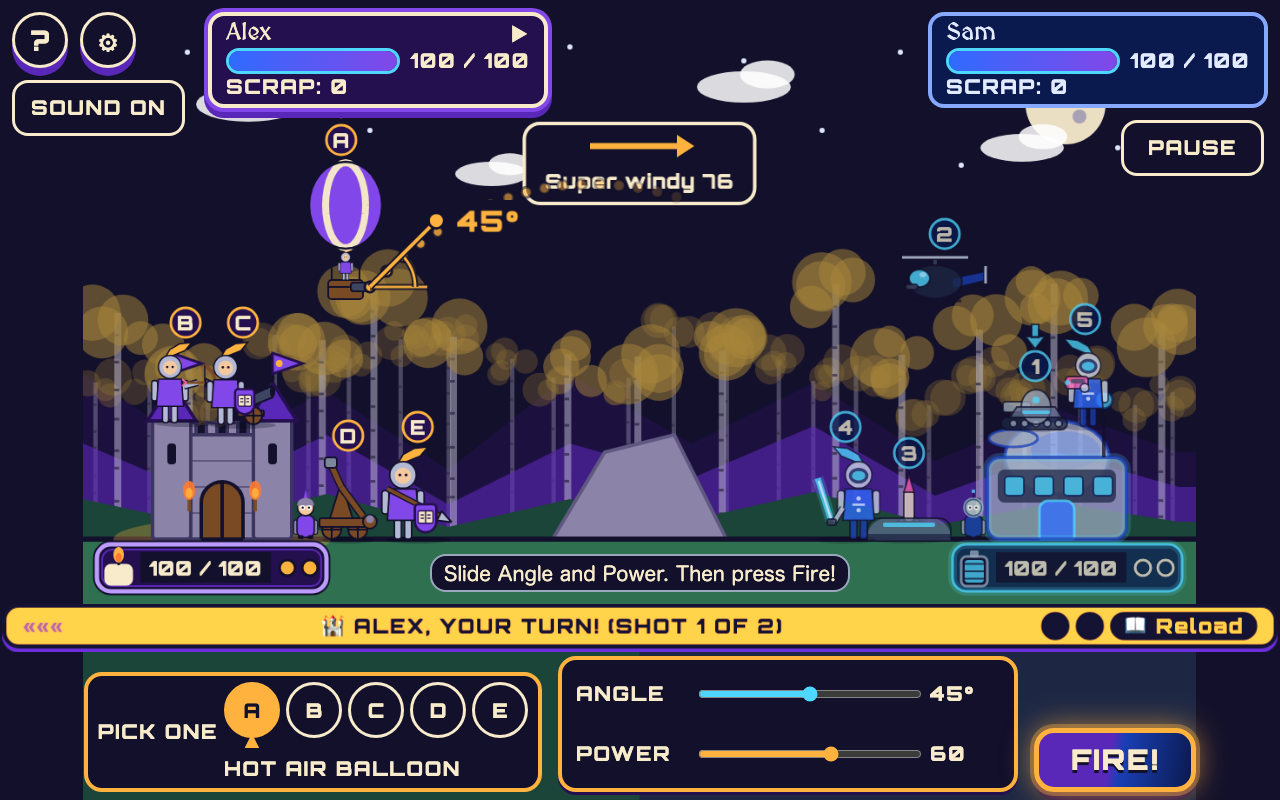
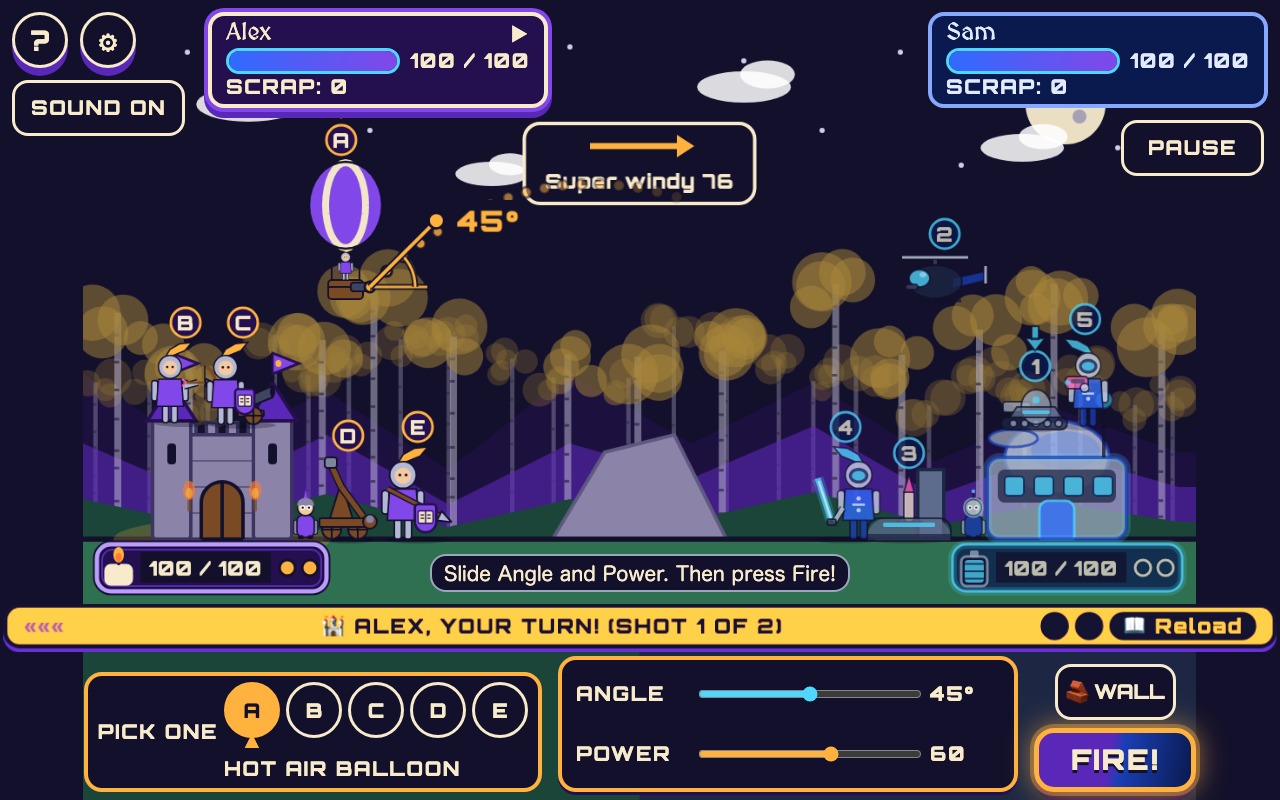
Document the Battle Plan, ammo and evasion wiring
Update BUILD.md with the design calls made where it was silent,
ARCHITECTURE.md with the flow, rules and storage key, CONTRACTS.md
with two decisions, the Current state in AGENTS.md, and BACKLOG.md
with the open questions.

diff --git a/ARCHITECTURE.md b/ARCHITECTURE.md
@@ -24,7 +24,7 @@ Read-aloud audio for questions and wipeout lines is pre-made offline and stored 
 `app-server/` is a small Node server (`node:http` only) that serves the built site and the recorded lines on one origin: `GET /v1/clips/:id`, `GET /health`, static files with cache headers, compression and Range support. The exact security headers come from `public/_headers`. The game asks for clips only in a build made with `VITE_VOICE=on` (production and e2e builds). `speak(line)` picks the line's own `audioSrc` file, then a clip (`src/audio/clipPlayer.ts`, id from `src/audio/clipId.ts`), then the browser voice. A clip that fails or takes over 1.5 s falls back at once and is not asked for again that session. The funny knock-down line is also spoken through `speak()` when clips are on. The Phase 4 relay will mount at `/ws` in the same process. Full contract, env, and Railway cutover and rollback: [docs/APP_SERVER.md](./docs/APP_SERVER.md).
 
 ## Scene flow
-New family: TapToStart → Intro → Loading → Setup → Camp → (Deploy, Phase 2) → Battle → Victory → Rematch or Camp.
+New family: TapToStart → Intro → Loading → Setup → Camp → Battle Plan → Battle → Victory → Rematch or Camp. The Battle Plan is a DOM screen run by the Camp step (`showPlan`, `src/ui/planScreen.ts`). Back returns to the Camp. Lock it in! saves the plan and starts the match.
 Returning family (intro seen and players saved): Loading → Camp → Battle → Victory → Rematch or Camp. There is no Tap to Play screen for them. The first tap or key press anywhere unlocks sound (`boot.ts`), so nothing plays before a tap.
 
 Back and exit: Setup has Back (to the Camp, saves nothing) once players are saved. The Forge has Back. In a battle, Pause offers Keep playing and Leave game, which asks "Leave this game?" first (Stay is focused) and then returns to the Camp.
@@ -39,7 +39,13 @@ The Camp hawk is a small 3D solid (`src/ui/hawkModel.ts`: body, head, beak, eyes
 `src/scenes/battle/aimArt.ts` draws one small angle guide (a short arc, a ~108px line, a tiny handle with a 48px invisible grab circle, and the degree number) at the muzzle of the fighter about to fire. The muzzle comes from `firingOrigin(team, unitId, layout)` in `src/game/units.ts`, the same function `match.fire()`, the bot and the dotted preview use, so the guide, the preview and the shot always start at one point. `flow.ts` sends it to the view as `ViewStatus.firingOrigin`, and picking another fighter moves the guide. Dragging the tip sets the angle only (`angleFromDrag` in `geometry.ts`). Power is shown and set only by the bottom-bar slider; there is no power meter on the board. The e2e hook reads the guide through `window.__timeclash.aim()`. Tests: `tests/game/units.test.ts`, `tests/scenes/battle/geometry.test.ts`, `e2e/aim.spec.ts`.
 
 ## Base deployment spots (Phase 2)
-`src/game/spots.ts` turns a spot id (`skyscraper`, `bridge`, `foodTruck`, or `null`) into a `BattleLayout`. Only Team Future's base, launch origin, and cover move. `null` and unknown ids give the Phase 1 layout. The numbers live in `SPOTS` in `src/game/config.ts`. Not wired into the scenes yet.
+`src/game/spots.ts` turns a spot id (`skyscraper`, `bridge`, `foodTruck`, or `null`) into a `BattleLayout`. Only Team Future's base, launch origin, and cover move. `null` and unknown ids give the Phase 1 layout. The numbers live in `SPOTS` in `src/game/config.ts`. The Battle Plan picks one (see below).
+
+## Battle Plan, biomes, ammo and evasion (Phase 2, wired in)
+- **Battlefield.** `src/game/battlefield.ts` `buildLayout({ biome, spot })` builds the `BattleLayout`: obstacle 0 is the biome's middle shape (`BIOMES` in config; aspen is the Phase 1 hill), then the spot's shapes. The layout carries `biome`, `spot` and `baseShift`. A fighter standing on its base (`ridesBase` in `units.ts`) moves with it, and `firingOrigin` applies the shift, so the shot, the bot and the guide agree. The scene draws the biome backdrop (`src/scenes/battle/biomeArt.ts`) and shifts those fighters.
+- **Ammo.** Special kinds are unlocked per player and side on the Battle Plan (`unlockAmmo`, saved as `loadout[team].ammo`). `MatchOptions.ammo` lists the kinds each side owns. The match keeps the loaded kind and the shots left (`selectAmmo`, snapshot `ammo` and `ammoLeft`). Firing a special kind uses one. At 0 it goes back to Standard. Standard changes nothing.
+- **Evasion.** `src/game/evasion.ts` is a small cycle per team: ready → armed (this turn) → active (the other team's next turn) → recharging or used. `armEvasion` and `disarmEvasion` work only while aiming and are free. Team Past's Stone Wall adds a wall obstacle (`EVASION.barricade.wall`) for the whole enemy turn, once per match (`currentLayout()`). Team Future's Hoverboard Dodge makes the first damaging hit of the enemy turn miss (`dodged: true`), before the force field, and is ready again 2 own turns after it was armed. Misuse throws (`IllegalTransitionError` out of phase, `EvasionError` when not ready).
+- **Screens.** The HUD gear (`src/ui/hudGear.ts`) floats by Fire: an Ammo button (hidden until a kind is owned) and the ability button (`aria-pressed` when armed). With no room it shows icons only. Chrono says a line with a caption when an ability is armed.
 
 ## Base builder (Phase 2, behind a switch)
 Before a battle a player builds a castle (Team Past) or a base (Team Future) from bricks. The feature is off: `BASE_BUILDER.enabled` in `src/game/config.ts` is `false`. Add `?builder=1` to the address to try it. With it off, the Camp is exactly as before.
@@ -61,7 +67,7 @@ Character health (flag `CHARACTER_HEALTH.enabled`, off): every fighter has 3 hea
 
 Built bases in battle (flag `BASE_IN_BATTLE.enabled`, off, needs character health): a team's built bricks and weapon spots take hits, fall, and fire in the match (`src/game/builtBase.ts`). See `docs/GAME_SPEC.md` "Built bases in battle".
 
-## Ammo (rules built, not yet wired into the match)
+## Ammo (rules; wired in through the Battle Plan, see above)
 `src/game/ammo.ts` holds four kinds: standard, confetti explosives, bouncy plasma spheres and heavy iron bowling balls. Standard is free, unlimited and changes nothing (`tests/game/ammo.test.ts` pins that). The other three cost Scrap to unlock (10, 14, 18) and have 3, 3 and 2 uses per match. `simulateShot({ ..., ammo })` applies speed and wind scales and the plasma bounce (once, off the ground only; the result adds `bounced`). `classifyBlast(impact, base, radiusScale)` widens the blast for confetti. `scaleDamage(base, ammo)` scales and rounds damage. An unknown id counts as standard.
 
 ## The hit moment
@@ -91,7 +97,7 @@ Question and intro shapes are in [docs/BUILD.md](./docs/BUILD.md) and [docs/NARR
 Wind, question order, and speech bubble choice use a seeded RNG (`src/game/rng.ts`). Physics uses a fixed 1/60 s step. The same seed and inputs give the same match.
 
 ## Storage keys (localStorage)
-`timeclash.players`, `timeclash.introSeen`, `timeclash.settings` (mute, volume, captions, music, reduced motion), `timeclash.history` (questions used, plus a short list of missed questions to ask again), `timeclash.camp` (one wallet per player name: Scrap in hand, lifetime Scrap earned, and the weapons and upgrades they own for each side, plus the seed of the last match whose Scrap was added). Names match without caring about capitals or extra spaces. A plan for signed-in players and a SQLite database is in [docs/ACCOUNTS_PLAN.md](./docs/ACCOUNTS_PLAN.md)., `timeclash.bases` (up to three saved bases per player name and side, each a short list of bricks, plus which slot is chosen; at most 50 names; cleaned on every read), `timeclash.levels` (a quiet level nudge per player name and subject: an offset from -2 to +2 and the last few answers, at most 50 names; after each 5 answers, 4 or more right moves up one step, 2 or fewer moves down one; never shown to a child)., `timeclash.practice` (Play with: `{ opponent: 'person' | 'computer', level: 'easy' | 'medium' | 'hard' }`; only read while the Computer player choice is on). No personal data beyond first names the family types in. Nothing is sent anywhere.
+`timeclash.players`, `timeclash.introSeen`, `timeclash.settings` (mute, volume, captions, music, reduced motion), `timeclash.history` (questions used, plus a short list of missed questions to ask again), `timeclash.camp` (one wallet per player name: Scrap in hand, lifetime Scrap earned, and the weapons and upgrades they own for each side, plus the seed of the last match whose Scrap was added). Names match without caring about capitals or extra spaces. A plan for signed-in players and a SQLite database is in [docs/ACCOUNTS_PLAN.md](./docs/ACCOUNTS_PLAN.md)., `timeclash.bases` (up to three saved bases per player name and side, each a short list of bricks, plus which slot is chosen; at most 50 names; cleaned on every read), `timeclash.plan` (the last Battle Plan: biome and base spot; bad data falls back to Aspen Forest and Food Trucks), `timeclash.levels` (a quiet level nudge per player name and subject: an offset from -2 to +2 and the last few answers, at most 50 names; after each 5 answers, 4 or more right moves up one step, 2 or fewer moves down one; never shown to a child)., `timeclash.practice` (Play with: `{ opponent: 'person' | 'computer', level: 'easy' | 'medium' | 'hard' }`; only read while the Computer player choice is on). No personal data beyond first names the family types in. Nothing is sent anywhere.
 
 ## Phase 4 (iPad play)
 A small Node relay (`ws`) pairs two clients by a 4-letter room code. The server owns turn order and checks every move. Clients send inputs only. See Phase 4 in [docs/BUILD.md](./docs/BUILD.md).

diff --git a/docs/BUILD.md b/docs/BUILD.md
@@ -123,7 +123,7 @@ The design boards are 1600x900 mockups. We translate their look to 1280x800, 102
 ## Phase 2: Camp Hub, base placement, biomes
 - Camp Hub scene per the Main (Camp hub) board in the design handoff. **Built.** The board shows the campfire, both camps, workbenches, and three buttons: [FORGE WEAPON], [BUILD BASE] and the big [TIME TO CLASH!]. The big one starts the match. Forge Weapon and Build Base open their own screens. Tweak Gear is not on the board, so it is not built.
 - Base Deployment: three Austin spots (skyscraper top, bridge underside, food truck pavilion). The spot changes launch height and cover. Test: each spot has a distinct elevation and a reachable shot path.
-  - **Rules built, no screen yet**: `src/game/spots.ts` and the `SPOTS` block in `src/game/config.ts`. `layoutForSpot(null)` is exactly the Phase 1 layout. Launch height (y): skyscraper 310, food truck 470, bridge 530. The bridge deck blocks flat shots, so players lob. `shiftForSpot` moves the Future fighters with their base. Tests: `tests/game/spots.test.ts`.
+  - **Rules built, picked on the Battle Plan**: `src/game/spots.ts` and the `SPOTS` block in `src/game/config.ts`. `layoutForSpot(null)` is exactly the Phase 1 layout. Launch height (y): skyscraper 310, food truck 470, bridge 530. The bridge deck blocks flat shots, so players lob. `shiftForSpot` moves the Future fighters with their base. Tests: `tests/game/spots.test.ts`.
 - Base placement (castle and secret base from bricks): **screen and rules built, switched off.** Before a battle a player drags bricks from a tray onto a build plot, turns them, stacks them, and puts them on walls. Each player keeps three saved bases per side and picks one. A locked piece costs Scrap. Rules: `src/game/baseBuilder.ts`. Screen: `src/ui/baseBuilderScreen.ts`, `baseBuilderArt.ts`, `src/styles/baseBuilder.css`. Numbers: `BASE_BUILDER` in `src/game/config.ts`. With the builder on, the Camp has one **Build Base** button per side that opens it (it replaces the old Upgrade Base shop screen, which still shows under the name Build Base while the builder is off). Players spend Scrap there on locked pieces and weapons. It stays off (`BASE_BUILDER.enabled = false`) until the panel has reviewed it. Try it with `?builder=1`. Tests: `tests/game/baseBuilder.test.ts`, `tests/game/weaponSpots.test.ts`, `unlockPiece.test.ts`, `tests/storage/bases.test.ts`, `tests/ui/baseBuilder.test.ts`, `e2e/base-builder.spec.ts`, `e2e/base-builder-touch.spec.ts`.
   - **How battle reads the chosen base (rules built, flag off).** `chosenBase(bases, name, team)` returns the bricks of the slot the player picked, already cleaned, and `chosenBaseFor` in `src/game/builtBase.ts` bundles it with `chosenSpots` as a `ChosenBase`. A match takes one per team in `MatchOptions.bases` when `baseInBattle` is on (`BASE_IN_BATTLE`, default off, needs character health). The match converts the plot to the battlefield (scale and mirror per team), keeps a separate hit point count per brick (starting at the saved `hp`) and never changes the saved base. A brick at 0 hit points falls away, takes the bricks it was holding up with it, and the shot result reports it so the scene can puff it. Full rules and the damage table: docs/GAME_SPEC.md "Built bases in battle". The scene does not draw it yet.
   - **How battle will read the chosen base (a later task).** `chosenBase(bases, name, team)` in `src/game/baseBuilder.ts` returns the bricks of the slot the player picked, already cleaned (unknown or overlapping bricks are dropped). Each brick has a piece id, a place on the 24 by 12 grid (`x`, `y` in cells, `ox`, `oy` in eighths of a cell), a turn (`rot`) and `hp`, the hit points it starts with (the piece's full strength, from `BASE_BUILDER.hp`). `rectOf(brick)` gives its box. Battle should read it once when the match is built, draw each brick at its box, and keep a separate hit-point count per brick for the match. Saved bases must never be changed by a match. A brick at 0 hit points falls away with a puff, and the base health bar can follow the total of the bricks. The scene and the damage rules are not changed by this task.
@@ -132,13 +132,20 @@ The design boards are 1600x900 mockups. We translate their look to 1280x800, 102
   - **How battle fires the spots (rules built, flag off).** `chosenSpots(bases, name, team)` returns four `{ index, x, y, weapon }` rows (`x` and `y` are the middle of the pad in free steps, so a brick's `rectOf` box and a pad share one coordinate system; `weapon` is a spot-weapon id or `null`). With the flag on, a mounted weapon on spot `i` is a shooter with id `mount:i`, picked with `selectUnit('mount:i')`, and it fires from its pad: `direct` flat (angle 0 to 45), `lob` in an arc (45 to 90, flies over walls), `volley` a burst of 3 small shells, and `guard` (the Shield generator) fires nothing and instead blocks the first hit per turn that lands within 90 px of its pad. Each weapon starts at its catalog `hp`, takes hits like a brick, and sits on the highest brick under its pad, so if that brick falls the weapon falls too and is out. Saved bases are never changed by a match.
 - Parallax biomes: Aspen Forest, Cherry Blossom Forest, Ruined Temple. Selected before battle.
 - Evasion abilities: Hoverboard Dodge (recharges after 2 turns) and Stone Barricade Wall (once per match).
+- **Wired in (Battle Plan).** "Time to Clash!" opens the Battle Plan (`src/ui/planScreen.ts`): pick a place, Team Future picks its base spot, and either side may unlock special ammo. Lock it in! starts the match with `buildLayout(plan)` and each side's owned ammo. The plan is saved in `timeclash.plan`. Choices made where this file was silent (simplest option, flagged for Andy):
+  - The spot picker shows the three Austin spots only. The default is Food Trucks (the Phase 1 base place, plus its low wall).
+  - Each biome changes the backdrop and the middle obstacle: Aspen keeps the Phase 1 hill, Cherry Blossoms is a low wide mound, Ruined Temple is a tall pillar. A test proves both teams can still score in every biome and spot, in no wind and strong wind.
+  - One ability per team: Team Past has the Stone Wall (a wall in front of the castle for the other team's whole next turn, once per match). Team Future has the Hoverboard Dodge (the first damaging hit of the other team's next turn misses; ready again 2 of your own turns after you arm it). "Recharges after 2 turns" counts your own turns.
+  - Arming is free (not a shot) and works while aiming, including the Power Shot. A second tap the same turn takes it back.
+  - Ammo is unlocked on the Battle Plan (not the Forge) and loaded with the Ammo button by Fire. A mounted base weapon (built bases, flag off) always fires its own shells.
+  - Tests: `tests/game/battlefield.test.ts`, `evasion.test.ts`, `matchPhase2.test.ts`, `ammoUnlock.test.ts`, `tests/storage/plan.test.ts`, `tests/ui/plan.test.ts`, `hudGear.test.ts`, `tests/scenes/battle/flowPhase2.test.ts`, `e2e/phase2.spec.ts`.
 
 ## Phase 3: Deep crafting and customization
 - Working Camp buttons. Build the Forge screens from the Forge and ForgeFuture boards, and the Upgrade screens from the Upgrade and UpgradePast boards. Recipes combine Past materials (granite, iron) with Future materials (nanotubes, energy shields).
 - **Forge Weapon screen built** from the Forge and ForgeFuture boards (`src/ui/forgeScreen.ts`, `forgeArt.ts`): pick a team, unlock or equip a weapon, forge the one in use. Scrap only. **Build Base screen (old shop, shown while the builder is off) built** from the Upgrade and UpgradePast boards (`src/ui/upgradeScreen.ts`, `upgradeArt.ts`): pick a team, raise any of three upgrades through three levels with Scrap. The battle HUD and base pills show the raised maximum health.
 - **Rules built**: `src/game/weapons.ts`, `upgrades.ts`, `loadout.ts` and `economy.ts`, saved in `timeclash.camp`. Scrap is the only currency. A fresh game plays exactly like Phase 1. The balance test (`tests/game/balance.test.ts`) checks that no single purchase wins the game alone.
 - Hybrid weapons: Nanotech Trebuchet, Wrought-Iron Railgun, EMP-shielded Railgun. Each has stats in `src/game/weapons.ts` (damage, blast radius, speed, reload difficulty).
-- Ammo types: confetti explosives (bigger blast, a little less damage), bouncy plasma spheres (one real bounce off the ground), heavy iron bowling balls (slower, hardly pushed by wind, more damage). Rules are in `src/game/ammo.ts`. Each costs Scrap to unlock (10, 14, 18) and has 3, 3 and 2 uses per match. The match and Camp wiring is not built yet.
+- Ammo types: confetti explosives (bigger blast, a little less damage), bouncy plasma spheres (one real bounce off the ground), heavy iron bowling balls (slower, hardly pushed by wind, more damage). Rules are in `src/game/ammo.ts`. Each costs Scrap to unlock (10, 14, 18) and has 3, 3 and 2 uses per match. Wired in: unlock on the Battle Plan, load with the Ammo button in battle (see Phase 2).
 - Scrap economy: earned from fast, correct reloads. Spent only at the Camp. Kept by player name on the device, with a lifetime total. A database for signed-in players is planned (docs/ACCOUNTS_PLAN.md). Balance test: no single purchase wins the game alone.
 - Individual K to 12 calibration: if a player gets 4 of 5 right, nudge the next question up a level (never more than 2 above grade). If 2 of 5 or fewer, nudge down. Show nothing scary about this.
 

diff --git a/AGENTS.md b/AGENTS.md
@@ -127,7 +127,7 @@ Check this list before coding. If your change touches a listed area, read the ex
 ## Current state (2026-10-15)
 Phase 1 is built: Tap to Play, How to Play (5 cards, captions, Skip, Replay, Mute), Loading, Setup, Battle (2 shots, then reload, then a Power Shot after a right answer), Victory and Rematch. Sound is made in code with WebAudio: cannon boom for Team Past, laser pew for Team Future, and one original music loop in two flavors. Test runs are silent (`tests/setup/silent.ts` and `e2e/support/silent.ts` fail a test that starts real sound). Question bank has 40 questions per grade per subject (1,040 total, checked by `npm run check:questions`). Intro voice audio files are not recorded yet, so the browser's speech voice is used.
 
-The look and feel phase is built from the Claude Design handoff. Tokens are in `src/styles/tokens.css`, and the rules are in [docs/DESIGN_SYSTEM.md](./docs/DESIGN_SYSTEM.md). MedievalSharp and Orbitron are self-hosted in `public/fonts/`. Grade chips are 56px or more. Contrast meets 4.5:1 for body text and 3:1 for large text. The labels are Team Past and Team Future, and the Wipeout screen replaces the mock's destroyed-base screen. Open polish and content items are in `BACKLOG.md`. The Camp Hub is built from the Main board: the Camp is the home screen (a returning family lands there with no Tap to Play screen, and a new family after Setup, with a small Change players button back to Setup), and "Time to Clash!" starts the match (Forge Weapon and Build Base open their own screens). The name is Time Clash. "Time to Clash!" is only the slogan. The Battle HUD follows the Battle board: one bar at the bottom (turn name, shot pips, Angle, Power, Fire!) and a coach line ("Slide Angle and Power. Then press Fire!") that shows until the first shot. Forge Weapon and Build Base are built (Scrap only; the label is "Build Base", and "Upgrade Base" is retired). With the base builder on, Build Base opens the builder (one button per side; spend Scrap on locked pieces and weapons, use what you own, keep three saved bases). With it off, Build Base opens the old shop screen. Setup, the Forge and Build Base have Back, and Pause has Leave game. Scrap and purchases are kept by player name on the device (lifetime Scrap too), and each player's Scrap shows in the battle HUD. Signed-in players and a SQLite database are planned, not built. The rest of Phase 2 (base placement, biomes, evasion) follows `docs/BUILD.md`. Battle now has five fighters per side with a "Pick one" selector in the bottom band (only one acts at a time), a Power Shot after a right reload answer (one extra shot at 1.5x damage, size still Andy's call), fighters drawn from the Battle board, explosions, base damage marks, and funny falls that end in a puff. The Loading screen and Camp follow the latest boards, with arrows, the ball and the missile flying on real physics. Ammo, evasion, biomes and base spots exist as rules only and are not wired in yet. Question-level calibration is wired into the reload.
+The look and feel phase is built from the Claude Design handoff. Tokens are in `src/styles/tokens.css`, and the rules are in [docs/DESIGN_SYSTEM.md](./docs/DESIGN_SYSTEM.md). MedievalSharp and Orbitron are self-hosted in `public/fonts/`. Grade chips are 56px or more. Contrast meets 4.5:1 for body text and 3:1 for large text. The labels are Team Past and Team Future, and the Wipeout screen replaces the mock's destroyed-base screen. Open polish and content items are in `BACKLOG.md`. The Camp Hub is built from the Main board: the Camp is the home screen (a returning family lands there with no Tap to Play screen, and a new family after Setup, with a small Change players button back to Setup), and "Time to Clash!" starts the match (Forge Weapon and Build Base open their own screens). The name is Time Clash. "Time to Clash!" is only the slogan. The Battle HUD follows the Battle board: one bar at the bottom (turn name, shot pips, Angle, Power, Fire!) and a coach line ("Slide Angle and Power. Then press Fire!") that shows until the first shot. Forge Weapon and Build Base are built (Scrap only; the label is "Build Base", and "Upgrade Base" is retired). With the base builder on, Build Base opens the builder (one button per side; spend Scrap on locked pieces and weapons, use what you own, keep three saved bases). With it off, Build Base opens the old shop screen. Setup, the Forge and Build Base have Back, and Pause has Leave game. Scrap and purchases are kept by player name on the device (lifetime Scrap too), and each player's Scrap shows in the battle HUD. Signed-in players and a SQLite database are planned, not built. Battle now has five fighters per side with a "Pick one" selector in the bottom band (only one acts at a time), a Power Shot after a right reload answer (one extra shot at 1.5x damage, size still Andy's call), fighters drawn from the Battle board, explosions, base damage marks, and funny falls that end in a puff. The Loading screen and Camp follow the latest boards, with arrows, the ball and the missile flying on real physics. Phase 2 play is wired in: "Time to Clash!" opens the Battle Plan (pick a place: Aspen Forest, Cherry Blossoms or Ruined Temple; Team Future hides its base on the Skyscraper, Food Trucks or Bridge; either side unlocks special ammo with Scrap), then Lock it in! starts the match. The plan is remembered (`timeclash.plan`). In battle, two gear buttons sit by Fire: Ammo (shown once a side owns a special kind) and the side's evasion ability (Team Past: Stone Wall, once per match; Team Future: Hoverboard Dodge, ready again 2 own turns later). Arming is free and guards during the other team's next turn. The turn is still 2 shots, then the covered reload. Question-level calibration is wired into the reload.
 
 ## Pre-merge checklist
 1. `npm test`, `npm run lint`, `npm run typecheck`, `npm run build` pass with zero failures.

diff --git a/BACKLOG.md b/BACKLOG.md
@@ -24,7 +24,12 @@ Phase 1 is built (see docs/BUILD.md and docs/CONTRACTS.md). The look and feel ph
 - The win moment has no celebration.
 - The reward for a fast answer is easy to miss.
 - Wood plank and neon pod card skins, bigger castle and rocket pictures on Setup cards, brighter Tap to Play silhouettes with a visual gag, and bouncing victory blocks are new art.
-- Phase 2 base placement, biomes, and evasion abilities (docs/BUILD.md). The Camp Hub is built.
+- Phase 2 Battle Plan, biomes, base spots, ammo and evasion are wired in. Open calls for Andy: one ability per team (Past wall, Future dodge) or both for each side; wall size and once per match versus dodge every 3rd turn (balance); Food Trucks as the default spot (it adds a low wall that Phase 1 did not have); ammo unlock lives on the Battle Plan, not the Forge.
+- P2: Portrait (768x1024) with the Skyscraper spot: the Team Future card covers the tank and laser robot on top of the tower. Move the top cards or lower the tower in portrait.
+- P2: Biome art is simple: cherry trees recolor the aspens and the temple uses plain columns. The spot shapes (tower, bridge deck, food truck wall) are plain steel blocks. Real art from a design board would help.
+- P3: The aim preview ignores the weapon and fighter range scale (it did before Phase 2 too). It does use the ammo and any standing wall.
+- P3: The Computer player does not aim around a standing stone wall.
+- P3: Ammo and the dodge only change damage in the base-health game. With character health (flag off) ammo still changes the flight, but not damage.
 - Camp scrap counter and saved scrap between matches. The Main board has no scrap counter, so it waits for Phase 3 and the Forge.
 - There are about 40 items per grade and subject (grades K to 2 now have 62 to 70, with story and word-meaning questions added). Families who play many rematches will see repeats. Grades 3 to 12 still need more.
 - There is no way to end a match early and no setting for match length.
